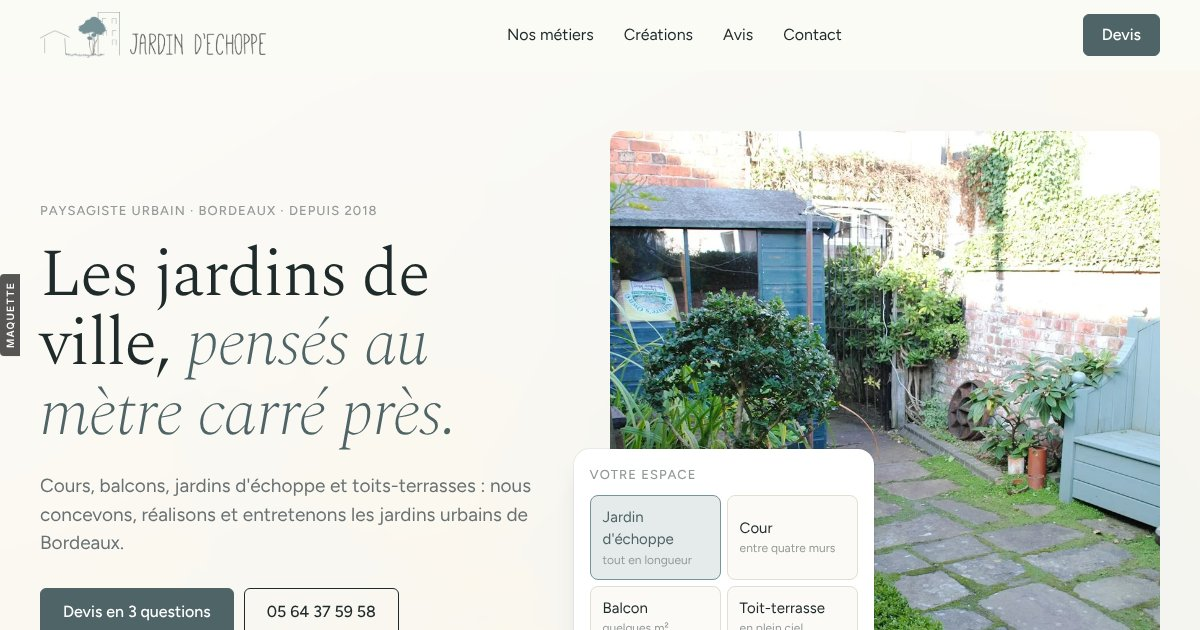
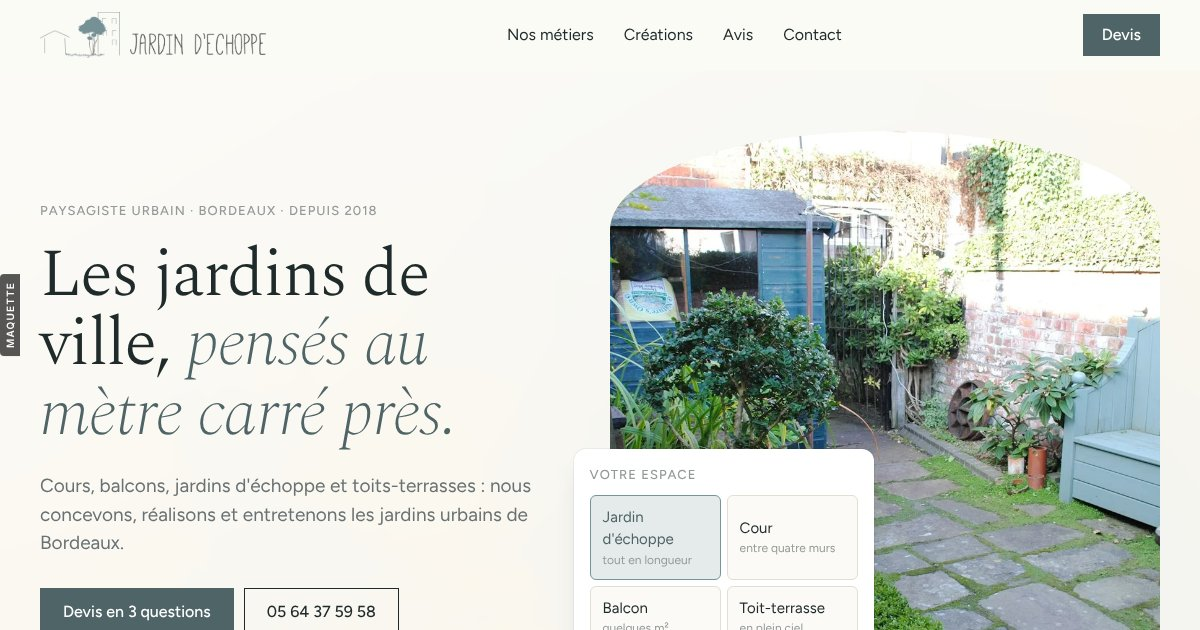
Créateck et Échoppe : arrondis variés et justifiés (angles droits pour le papier et la pierre, arrondis pour les outils et l'arche)
Claude-Session: https://claude.ai/code/session_01BKBzmXfCDzJvg2c12ASxcC

diff --git a/createck/index.html b/createck/index.html
@@ -39,7 +39,7 @@ button { font: inherit; color: inherit; }
 h1, h2, h3.serif { font-family: var(--serif); font-weight: 400; color: var(--ink); }
 h1 em, h2 em { font-style: italic; font-weight: 300; color: var(--olive); }
 .label { font-size: 14px; color: var(--ash); letter-spacing: .01em; }
-.btn { display: inline-flex; align-items: center; justify-content: center; gap: 8px; min-height: 48px; padding: 0 22px; border-radius: 10px; font: 480 16px var(--sans); border: 1px solid var(--ink); white-space: nowrap; cursor: pointer; transition: background .25s, color .25s, border-color .25s; background: none; }
+.btn { display: inline-flex; align-items: center; justify-content: center; gap: 8px; min-height: 48px; padding: 0 22px; border-radius: 8px; font: 480 16px var(--sans); border: 1px solid var(--ink); white-space: nowrap; cursor: pointer; transition: background .25s, color .25s, border-color .25s; background: none; }
 .btn.fill { background: var(--ink); color: #fff; }
 .btn.fill:hover { background: var(--olive); border-color: var(--olive); }
 .btn.ghost:hover { background: var(--ink); color: #fff; }
@@ -71,12 +71,12 @@ header.scrolled { box-shadow: 0 1px 0 var(--line); }
 .hero .sub { font-size: clamp(17px, 1.6vw, 20px); color: var(--muted); max-width: 50ch; margin: 20px auto 0; line-height: 1.4; }
 .hero .actions { display: flex; flex-wrap: wrap; gap: 10px; justify-content: center; margin-top: 28px; }
 .stage { position: relative; margin: clamp(28px, 4vw, 48px) auto 0; max-width: 1200px; padding: 0 clamp(16px, 4vw, 40px); }
-.photo { position: relative; border-radius: 12px; overflow: hidden; aspect-ratio: 16 / 8.2; background: var(--mist); isolation: isolate; }
+.photo { position: relative; border-radius: 0; overflow: hidden; aspect-ratio: 16 / 8.2; background: var(--mist); isolation: isolate; }
 .photo img { width: 100%; height: 100%; object-fit: cover; transform: scale(1.06); transition: transform 2.4s cubic-bezier(.2,.7,.2,1); }
 .ready .photo img { transform: none; }
 .photo canvas { position: absolute; inset: 0; width: 100%; height: 100%; mix-blend-mode: multiply; pointer-events: none; opacity: 0; transition: opacity 2s; }
 .photo canvas.on { opacity: .8; }
-.card { background: #fff; border-radius: 16px; box-shadow: var(--float); text-align: left; }
+.card { background: #fff; border-radius: 12px; box-shadow: var(--float); text-align: left; }
 .fl { position: absolute; z-index: 2; opacity: 0; transform: translateY(18px); transition: opacity 1s, transform 1.2s cubic-bezier(.2,.7,.2,1); }
 .ready .fl { opacity: 1; transform: none; }
 .fl.report { left: -10px; top: 9%; width: 290px; padding: 14px 14px 12px; transition-delay: .35s; }
@@ -86,7 +86,7 @@ header.scrolled { box-shadow: 0 1px 0 var(--line); }
 .rep-head { display: flex; align-items: center; justify-content: space-between; font-size: 13px; color: var(--muted); }
 .rep-head b { color: var(--ink); font-weight: 500; font-size: 15px; }
 .rep-pics { display: grid; grid-template-columns: 1fr 1fr; gap: 6px; margin: 10px 0; }
-.rep-pics img { aspect-ratio: 4/3; object-fit: cover; border-radius: 8px; width: 100%; }
+.rep-pics img { aspect-ratio: 4/3; object-fit: cover; border-radius: 3px; width: 100%; }
 .rep-list { list-style: none; padding: 0; font-size: 13.5px; line-height: 1.5; }
 .rep-list li { display: flex; gap: 8px; }
 .rep-list li::before { content: "✓"; color: var(--leaf); font-weight: 600; }
@@ -101,10 +101,10 @@ header.scrolled { box-shadow: 0 1px 0 var(--line); }
 .rating .stars { font-size: 15px; margin-top: 4px; }
 .plan .tag { font-size: 13px; color: var(--muted); display: flex; justify-content: space-between; padding: 2px 4px 8px; }
 .plan .tag b { color: var(--ink); font-weight: 500; }
-.plan svg { width: 100%; height: auto; display: block; background: var(--wash); border-radius: 10px; }
+.plan svg { width: 100%; height: auto; display: block; background: var(--wash); border-radius: 6px; }
 .composer .ph { flex: 1; color: var(--ash); font-size: 16px; overflow: hidden; white-space: nowrap; text-overflow: ellipsis; }
 .composer .ph b { color: var(--ink); font-weight: 400; }
-.composer .send { width: 44px; height: 44px; border-radius: 10px; background: var(--ink); color: #fff; display: grid; place-items: center; flex: none; }
+.composer .send { width: 44px; height: 44px; border-radius: 8px; background: var(--ink); color: #fff; display: grid; place-items: center; flex: none; }
 .composer .send svg { width: 18px; height: 18px; }
 
 /* Clients */
@@ -122,7 +122,7 @@ h2 { font-size: clamp(36px, 5.2vw, 64px); line-height: 1.12; letter-spacing: -0.
 .rail::-webkit-scrollbar { display: none; }
 .rail > * { scroll-snap-align: start; }
 .rail-nav { display: flex; gap: 8px; }
-.rail-nav button { width: 44px; height: 44px; border-radius: 10px; border: 1px solid var(--line); background: #fff; cursor: pointer; display: grid; place-items: center; transition: border-color .2s; }
+.rail-nav button { width: 44px; height: 44px; border-radius: 0; border: 1px solid var(--line); background: #fff; cursor: pointer; display: grid; place-items: center; transition: border-color .2s; }
 .rail-nav button:hover { border-color: var(--ink); }
 .rail-nav svg { width: 18px; height: 18px; }
 .row-head { display: flex; align-items: end; justify-content: space-between; gap: 24px; margin-bottom: 40px; }
@@ -130,8 +130,8 @@ h2 { font-size: clamp(36px, 5.2vw, 64px); line-height: 1.12; letter-spacing: -0.
 /* Métiers */
 .metiers { background: var(--fog); }
 .metiers .rail { grid-auto-columns: calc((100% - 32px) / 3); margin-top: 48px; }
-.m-card { background: var(--mist); border-radius: 20px; padding: 12px 12px 22px; display: flex; flex-direction: column; }
-.m-card .pic { border-radius: 12px; overflow: hidden; aspect-ratio: 4 / 3.1; }
+.m-card { background: var(--mist); border-radius: 0; padding: 12px 12px 22px; display: flex; flex-direction: column; }
+.m-card .pic { border-radius: 0; overflow: hidden; aspect-ratio: 4 / 3.1; }
 .m-card .pic img { width: 100%; height: 100%; object-fit: cover; transition: transform 1.2s cubic-bezier(.2,.7,.2,1); }
 .m-card:hover .pic img { transform: scale(1.04); }
 .m-card .label { margin: 18px 8px 0; }
@@ -148,7 +148,7 @@ h2 { font-size: clamp(36px, 5.2vw, 64px); line-height: 1.12; letter-spacing: -0.
 .steps p { grid-column: 2; color: var(--muted); font-size: 16px; }
 .quote-s { margin-top: 28px; font: italic 400 20px/1.45 var(--serif); color: #33372f; }
 .quote-s cite { display: block; font: 400 14px var(--sans); color: var(--ash); margin-top: 8px; font-style: normal; }
-.panel { background: var(--mist); border-radius: 24px; padding: clamp(24px, 4vw, 48px); position: relative; overflow: hidden; }
+.panel { background: var(--mist); border-radius: 0; padding: clamp(24px, 4vw, 48px); position: relative; overflow: hidden; }
 .panel .phone { max-width: 400px; margin: 0 auto; padding: 18px; }
 .panel .ex { position: absolute; top: 16px; right: 18px; }
 .msg { font-size: 15px; line-height: 1.5; margin-top: 12px; }
@@ -157,10 +157,10 @@ h2 { font-size: clamp(36px, 5.2vw, 64px); line-height: 1.12; letter-spacing: -0.
 .panel .rep-pics { grid-template-columns: 1.4fr 1fr; }
 .panel .rep-pics img:first-child { grid-row: span 2; aspect-ratio: auto; height: 100%; }
 .chips { display: flex; flex-wrap: wrap; gap: 6px; margin-top: 14px; }
-.chips span { font-size: 13px; padding: 5px 10px; border-radius: 8px; background: var(--wash); color: var(--olive); }
+.chips span { font-size: 13px; padding: 5px 10px; border-radius: 3px; background: var(--wash); color: var(--olive); }
 
 /* Projet */
-.projet .frame { position: relative; border-radius: 24px; overflow: hidden; aspect-ratio: 16 / 7.5; }
+.projet .frame { position: relative; border-radius: 0; overflow: hidden; aspect-ratio: 16 / 7.5; }
 .projet .frame img { width: 100%; height: 130%; object-fit: cover; position: absolute; top: -15%; left: 0; will-change: transform; }
 .projet .cap { position: absolute; left: 24px; bottom: 24px; max-width: 430px; padding: 22px 24px; }
 .projet .cap h3 { font: 400 26px/1.22 var(--serif); letter-spacing: -.01em; margin-top: 6px; }
@@ -168,7 +168,7 @@ h2 { font-size: clamp(36px, 5.2vw, 64px); line-height: 1.12; letter-spacing: -0.
 .projet .cap .arrow { margin-top: 14px; font-size: 16px; }
 
 /* La carte d'accent (une seule) */
-.accent { background: var(--wash); color: var(--olive); border-radius: 24px; padding: clamp(32px, 6vw, 72px); display: grid; grid-template-columns: auto 1fr; gap: clamp(20px, 4vw, 56px); align-items: start; }
+.accent { background: var(--wash); color: var(--olive); border-radius: 0; padding: clamp(32px, 6vw, 72px); display: grid; grid-template-columns: auto 1fr; gap: clamp(20px, 4vw, 56px); align-items: start; }
 .accent .mark { font: italic 300 clamp(80px, 10vw, 140px)/.7 var(--serif); }
 .accent blockquote { font: 400 clamp(23px, 2.8vw, 34px)/1.35 var(--serif); letter-spacing: -.01em; }
 .accent cite { display: flex; gap: 10px; align-items: center; font: 400 15px var(--sans); font-style: normal; margin-top: 22px; }
@@ -177,7 +177,7 @@ h2 { font-size: clamp(36px, 5.2vw, 64px); line-height: 1.12; letter-spacing: -0.
 .avis .score { display: flex; align-items: center; gap: 14px; flex-wrap: wrap; margin-top: 18px; color: var(--muted); font-size: 16px; }
 .avis .score b { font: 500 22px var(--sans); color: var(--ink); }
 .avis .rail { grid-auto-columns: calc((100% - 32px) / 3); }
-.r-card { background: var(--fog); border: 1px solid var(--line); border-radius: 16px; padding: 22px 22px 20px; display: flex; flex-direction: column; }
+.r-card { background: var(--fog); border: 1px solid var(--line); border-radius: 0; padding: 22px 22px 20px; display: flex; flex-direction: column; }
 .r-card .stars { font-size: 15px; }
 .r-card p { font-size: 16px; line-height: 1.55; margin-top: 12px; flex: 1; color: #2b2e28; }
 .r-card .who { display: flex; align-items: center; gap: 10px; margin-top: 18px; font-size: 15px; }
@@ -189,7 +189,7 @@ h2 { font-size: clamp(36px, 5.2vw, 64px); line-height: 1.12; letter-spacing: -0.
 /* Réalisations */
 .reals { background: var(--fog); }
 .reals .rail { grid-auto-columns: 380px; }
-.real .pic { border-radius: 12px; overflow: hidden; aspect-ratio: 4 / 4.6; }
+.real .pic { border-radius: 0; overflow: hidden; aspect-ratio: 4 / 4.6; }
 .real .pic img { width: 100%; height: 100%; object-fit: cover; transition: transform 1.2s cubic-bezier(.2,.7,.2,1); }
 .real:hover .pic img { transform: scale(1.04); }
 .real h3 { font: 500 17px/1.35 var(--sans); margin-top: 14px; }
@@ -197,7 +197,7 @@ h2 { font-size: clamp(36px, 5.2vw, 64px); line-height: 1.12; letter-spacing: -0.
 
 /* Zone + contact */
 .zone ul { list-style: none; padding: 0; display: flex; flex-wrap: wrap; gap: 8px; margin-top: 28px; }
-.zone li { font-size: 15px; padding: 8px 14px; border: 1px solid var(--line); border-radius: 10px; color: #3e423a; }
+.zone li { font-size: 15px; padding: 8px 14px; border: 1px solid var(--line); border-radius: 0; color: #3e423a; }
 .contact .grid { display: grid; grid-template-columns: 1fr 1fr; gap: clamp(32px, 6vw, 80px); align-items: start; }
 .coord { margin-top: 36px; border-top: 1px solid var(--line); }
 .coord a, .coord div { display: flex; justify-content: space-between; gap: 16px; padding: 18px 0; border-bottom: 1px solid var(--line); font-size: 17px; }
@@ -207,14 +207,14 @@ h2 { font-size: clamp(36px, 5.2vw, 64px); line-height: 1.12; letter-spacing: -0.
 form.card { padding: 22px; }
 form .f { display: block; margin-bottom: 12px; }
 form .f span { font-size: 14px; color: var(--muted); display: block; margin-bottom: 6px; }
-form input, form textarea, form select { width: 100%; font: 400 16px var(--sans); color: var(--ink); background: var(--fog); border: 1px solid var(--line); border-radius: 12px; padding: 13px 14px; outline: none; transition: border-color .2s, background .2s; }
+form input, form textarea, form select { width: 100%; font: 400 16px var(--sans); color: var(--ink); background: var(--fog); border: 1px solid var(--line); border-radius: 8px; padding: 13px 14px; outline: none; transition: border-color .2s, background .2s; }
 form textarea { min-height: 120px; resize: vertical; }
 form input:focus, form textarea:focus, form select:focus { border-color: var(--ink); background: #fff; }
 form .two { display: grid; grid-template-columns: 1fr 1fr; gap: 12px; }
 form .types { display: flex; flex-wrap: wrap; gap: 6px; margin-bottom: 14px; }
 form .types label { cursor: pointer; }
 form .types input { position: absolute; opacity: 0; width: 1px; height: 1px; }
-form .types span { display: block; font-size: 14px; padding: 8px 12px; border-radius: 10px; border: 1px solid var(--line); background: #fff; transition: all .2s; }
+form .types span { display: block; font-size: 14px; padding: 8px 12px; border-radius: 8px; border: 1px solid var(--line); background: #fff; transition: all .2s; }
 form .types input:checked + span { background: var(--ink); color: #fff; border-color: var(--ink); }
 form .types input:focus-visible + span { outline: 2px solid var(--olive); outline-offset: 2px; }
 form .btn { width: 100%; margin-top: 6px; }

diff --git a/echoppe/index.html b/echoppe/index.html
@@ -40,7 +40,7 @@ button { font: inherit; color: inherit; }
 h1, h2 { font-family: var(--serif); font-weight: 300; color: var(--ink); }
 h1 em, h2 em { font-style: italic; font-weight: 200; color: var(--slate); }
 .label { font-size: 13px; color: var(--ash); letter-spacing: .08em; text-transform: uppercase; font-weight: 500; }
-.btn { display: inline-flex; align-items: center; justify-content: center; gap: 8px; min-height: 48px; padding: 0 22px; border-radius: 6px; font: 500 16px var(--sans); border: 1px solid var(--ink); white-space: nowrap; cursor: pointer; transition: background .25s, color .25s, border-color .25s; background: none; }
+.btn { display: inline-flex; align-items: center; justify-content: center; gap: 8px; min-height: 48px; padding: 0 22px; border-radius: 0; font: 500 16px var(--sans); border: 1px solid var(--ink); white-space: nowrap; cursor: pointer; transition: background .25s, color .25s, border-color .25s; background: none; }
 .btn.fill { background: var(--slate); border-color: var(--slate); color: #fff; }
 .btn.fill:hover { background: var(--ink); border-color: var(--ink); }
 .btn.ghost:hover { background: var(--ink); color: #fff; }
@@ -73,17 +73,17 @@ header.scrolled { border-color: var(--line); }
 .hero .note { display: flex; align-items: center; gap: 10px; margin-top: 26px; font-size: 15px; color: var(--muted); }
 .hero .note b { color: var(--ink); font-weight: 600; }
 .visual { position: relative; }
-.visual .photo { position: relative; border-radius: 12px; overflow: hidden; aspect-ratio: 4 / 4.5; background: var(--stone); }
+.visual .photo { position: relative; border-radius: 50% 50% 0 0 / 16% 16% 0 0; overflow: hidden; aspect-ratio: 4 / 4.5; background: var(--stone); }
 .visual .photo img { position: absolute; inset: 0; width: 100%; height: 100%; object-fit: cover; opacity: 0; transform: scale(1.04); transition: opacity 1.2s, transform 2.4s cubic-bezier(.2,.7,.2,1); }
 .visual .photo img.on { opacity: 1; transform: none; }
-.picker { position: absolute; left: -36px; bottom: 32px; width: 300px; background: #fff; border-radius: 16px; box-shadow: var(--float); padding: 16px; }
+.picker { position: absolute; left: -36px; bottom: 32px; width: 300px; background: #fff; border-radius: 12px; box-shadow: var(--float); padding: 16px; }
 .picker .label { display: block; margin-bottom: 10px; }
 .picker .opts { display: grid; grid-template-columns: 1fr 1fr; gap: 6px; }
-.picker button { text-align: left; padding: 10px 12px; border-radius: 8px; border: 1px solid var(--line); background: var(--canvas); cursor: pointer; font-size: 15px; transition: all .25s; }
+.picker button { text-align: left; padding: 10px 12px; border-radius: 6px; border: 1px solid var(--line); background: var(--canvas); cursor: pointer; font-size: 15px; transition: all .25s; }
 .picker button small { display: block; font-size: 12px; color: var(--ash); }
 .picker button[aria-pressed="true"] { background: var(--wash); border-color: var(--tree); color: var(--slate); }
 .picker p { font-size: 14px; color: var(--muted); margin-top: 12px; min-height: 42px; }
-.chip { position: absolute; right: 16px; top: 16px; background: rgba(255,255,255,.94); border-radius: 10px; box-shadow: var(--float); padding: 10px 14px; display: flex; align-items: center; gap: 8px; font-size: 14px; }
+.chip { position: absolute; right: 16px; top: 16px; background: rgba(255,255,255,.94); border-radius: 0; box-shadow: var(--float); padding: 10px 14px; display: flex; align-items: center; gap: 8px; font-size: 14px; }
 .chip b { font-weight: 600; font-size: 16px; }
 
 section { padding: clamp(72px, 9vw, 112px) 0; }
@@ -97,7 +97,7 @@ h2 { font-size: clamp(36px, 4.8vw, 62px); line-height: 1.1; letter-spacing: -0.0
 .row h3 { font: 300 clamp(28px, 3vw, 40px)/1.1 var(--serif); letter-spacing: -.01em; }
 .row p { color: var(--muted); font-size: 16px; }
 .row p b { color: var(--ink); font-weight: 500; }
-.row .pic { border-radius: 10px; overflow: hidden; aspect-ratio: 4/3; }
+.row .pic { border-radius: 0; overflow: hidden; aspect-ratio: 4/3; }
 .row .pic img { width: 100%; height: 100%; object-fit: cover; transition: transform 1.2s cubic-bezier(.2,.7,.2,1); }
 .row:hover .pic img { transform: scale(1.05); }
 
@@ -108,11 +108,11 @@ h2 { font-size: clamp(36px, 4.8vw, 62px); line-height: 1.1; letter-spacing: -0.0
 .rail::-webkit-scrollbar { display: none; }
 .rail > * { scroll-snap-align: start; }
 .rail-nav { display: flex; gap: 8px; }
-.rail-nav button { width: 44px; height: 44px; border-radius: 6px; border: 1px solid var(--line); background: #fff; cursor: pointer; display: grid; place-items: center; }
+.rail-nav button { width: 44px; height: 44px; border-radius: 0; border: 1px solid var(--line); background: #fff; cursor: pointer; display: grid; place-items: center; }
 .rail-nav button:hover { border-color: var(--ink); }
 .rail-nav svg { width: 18px; height: 18px; }
 .creations .rail { grid-auto-columns: calc((100% - 48px) / 4); }
-.crea .pic { border-radius: 10px; overflow: hidden; aspect-ratio: 3 / 4; }
+.crea .pic { border-radius: 0; overflow: hidden; aspect-ratio: 3 / 4; }
 .crea .pic img { width: 100%; height: 100%; object-fit: cover; }
 .crea h3 { font: 500 17px/1.35 var(--sans); margin-top: 14px; }
 .crea p { font-size: 15px; color: var(--muted); margin-top: 4px; }
@@ -125,10 +125,10 @@ h2 { font-size: clamp(36px, 4.8vw, 62px); line-height: 1.1; letter-spacing: -0.0
 .trait h2 { margin-top: 40px; max-width: 20ch; margin-left: auto; margin-right: auto; }
 .trait p { color: var(--muted); font-size: 18px; max-width: 54ch; margin: 18px auto 0; }
 .trait ul { list-style: none; padding: 0; display: flex; justify-content: center; flex-wrap: wrap; gap: 8px; margin-top: 28px; }
-.trait li { padding: 8px 14px; border: 1px solid var(--line); border-radius: 6px; font-size: 15px; background: #fff; }
+.trait li { padding: 8px 14px; border: 1px solid var(--line); border-radius: 0; font-size: 15px; background: #fff; }
 
 /* Carte d'accent */
-.accent { background: var(--wash); color: var(--slate); border-radius: 20px; padding: clamp(32px, 6vw, 80px); text-align: center; }
+.accent { background: var(--wash); color: var(--slate); border-radius: 0; padding: clamp(32px, 6vw, 80px); text-align: center; }
 .accent blockquote { font: italic 200 clamp(26px, 3.4vw, 44px)/1.3 var(--serif); letter-spacing: -.01em; max-width: 30ch; margin: 0 auto; }
 .accent cite { display: block; font: 400 15px var(--sans); font-style: normal; margin-top: 24px; }
 
@@ -136,7 +136,7 @@ h2 { font-size: clamp(36px, 4.8vw, 62px); line-height: 1.1; letter-spacing: -0.0
 .avis .score { display: flex; align-items: center; gap: 12px; flex-wrap: wrap; margin-top: 18px; font-size: 16px; color: var(--muted); }
 .avis .score b { font-size: 22px; font-weight: 600; color: var(--ink); }
 .avis .rail { grid-auto-columns: calc((100% - 32px) / 3); }
-.a-card { background: #fff; border: 1px solid var(--line); border-radius: 12px; padding: 24px; display: flex; flex-direction: column; }
+.a-card { background: #fff; border: 1px solid var(--line); border-radius: 0; padding: 24px; display: flex; flex-direction: column; }
 .a-card p { font: 300 19px/1.45 var(--serif); margin-top: 12px; flex: 1; color: #263334; }
 .a-card .who { display: flex; align-items: center; gap: 10px; margin-top: 20px; padding-top: 16px; border-top: 1px solid var(--line); font-size: 15px; }
 .a-card .who .av { width: 34px; height: 34px; border-radius: 50%; background: var(--wash); color: var(--slate); display: grid; place-items: center; font-weight: 600; font-size: 14px; }
@@ -151,19 +151,19 @@ h2 { font-size: clamp(36px, 4.8vw, 62px); line-height: 1.1; letter-spacing: -0.0
 .coord > * { display: flex; justify-content: space-between; gap: 16px; padding: 16px 0; border-bottom: 1px solid var(--line); font-size: 16px; }
 .coord span { color: var(--ash); }
 .coord b { font-weight: 500; text-align: right; }
-form { background: #fff; border-radius: 16px; box-shadow: var(--float); padding: clamp(20px, 3vw, 32px); }
+form { background: #fff; border-radius: 0; box-shadow: var(--float); padding: clamp(20px, 3vw, 32px); }
 fieldset { border: 0; padding: 0; margin: 0 0 22px; }
 legend { font: 300 24px/1.2 var(--serif); margin-bottom: 12px; padding: 0; }
 legend i { font-style: normal; font: 500 13px var(--sans); color: var(--tree); display: block; margin-bottom: 4px; letter-spacing: .08em; }
 .opts { display: flex; flex-wrap: wrap; gap: 8px; }
 .opts label { cursor: pointer; }
 .opts input { position: absolute; opacity: 0; width: 1px; height: 1px; }
-.opts span { display: block; padding: 11px 16px; border-radius: 6px; border: 1px solid var(--line); font-size: 15px; transition: all .2s; background: var(--canvas); }
+.opts span { display: block; padding: 11px 16px; border-radius: 0; border: 1px solid var(--line); font-size: 15px; transition: all .2s; background: var(--canvas); }
 .opts input:checked + span { background: var(--slate); border-color: var(--slate); color: #fff; }
 .opts input:focus-visible + span { outline: 2px solid var(--slate); outline-offset: 2px; }
 .two { display: grid; grid-template-columns: 1fr 1fr; gap: 12px; }
 .f span { display: block; font-size: 14px; color: var(--muted); margin-bottom: 6px; }
-.f input { width: 100%; font: 400 16px var(--sans); padding: 13px 14px; border: 1px solid var(--line); border-radius: 8px; background: var(--canvas); outline: none; }
+.f input { width: 100%; font: 400 16px var(--sans); padding: 13px 14px; border: 1px solid var(--line); border-radius: 0; background: var(--canvas); outline: none; }
 .f input:focus { border-color: var(--slate); background: #fff; }
 form .btn { width: 100%; margin-top: 16px; }
 form .hint { text-align: center; font-size: 13px; color: var(--ash); margin-top: 10px; }
@@ -200,6 +200,7 @@ footer .small { margin-top: 40px; padding-top: 20px; border-top: 1px solid var(-
   .visual { order: -1; margin: 0 -4px; }
   .visual .photo { aspect-ratio: 4 / 3.5; }
   .picker { position: relative; left: auto; bottom: auto; width: auto; margin: -36px 12px 0; padding: 12px; }
+  .visual .photo { border-radius: 50% 50% 0 0 / 22% 22% 0 0; }
   .picker .opts { grid-template-columns: repeat(4, 1fr); gap: 4px; }
   .picker button { padding: 8px 6px; font-size: 13px; text-align: center; }
   .picker button small { display: none; }
